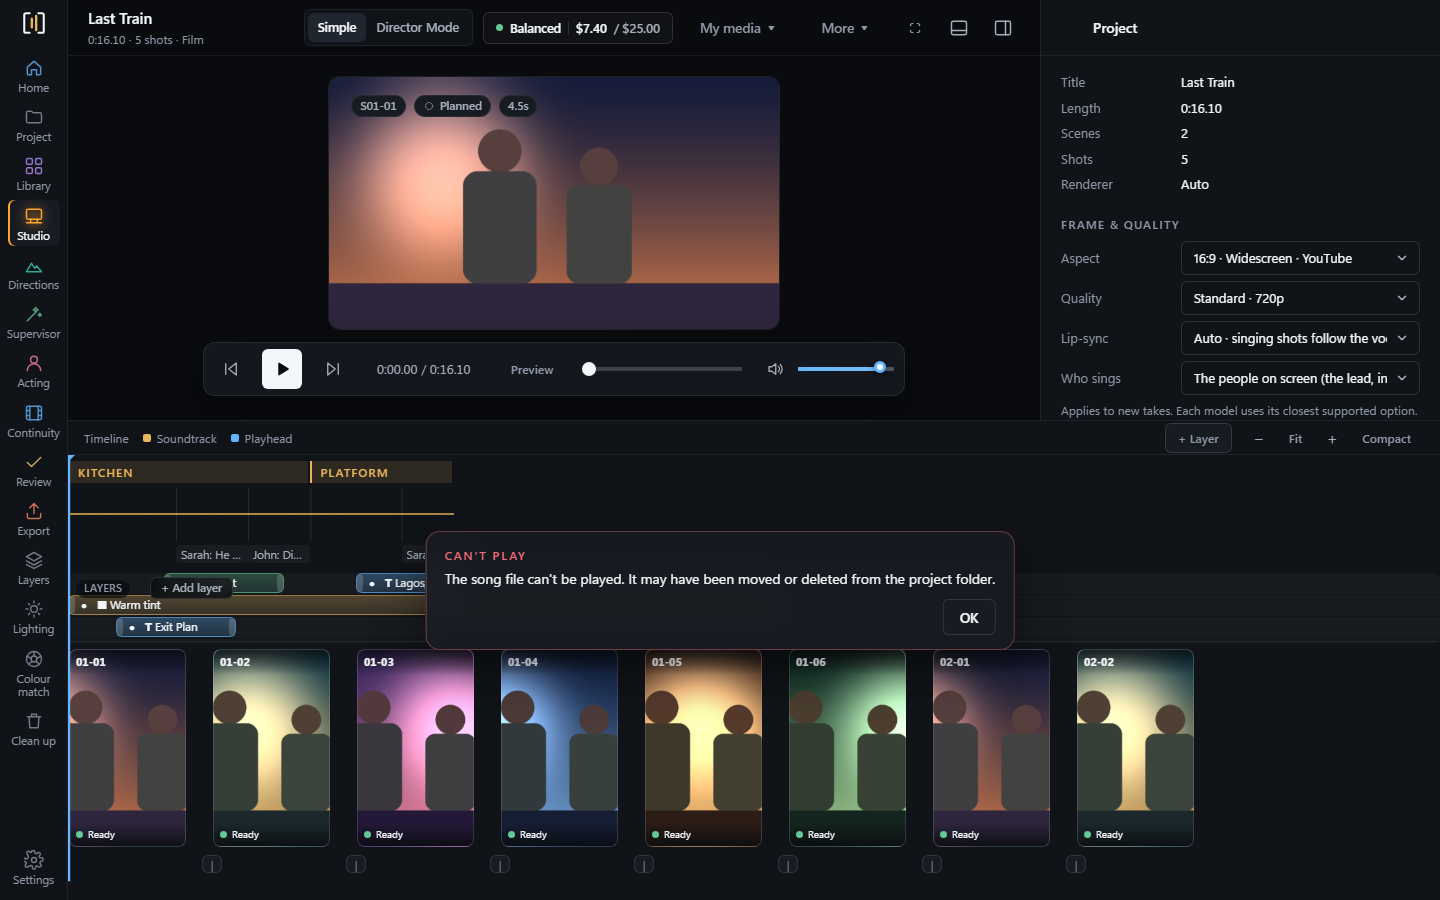
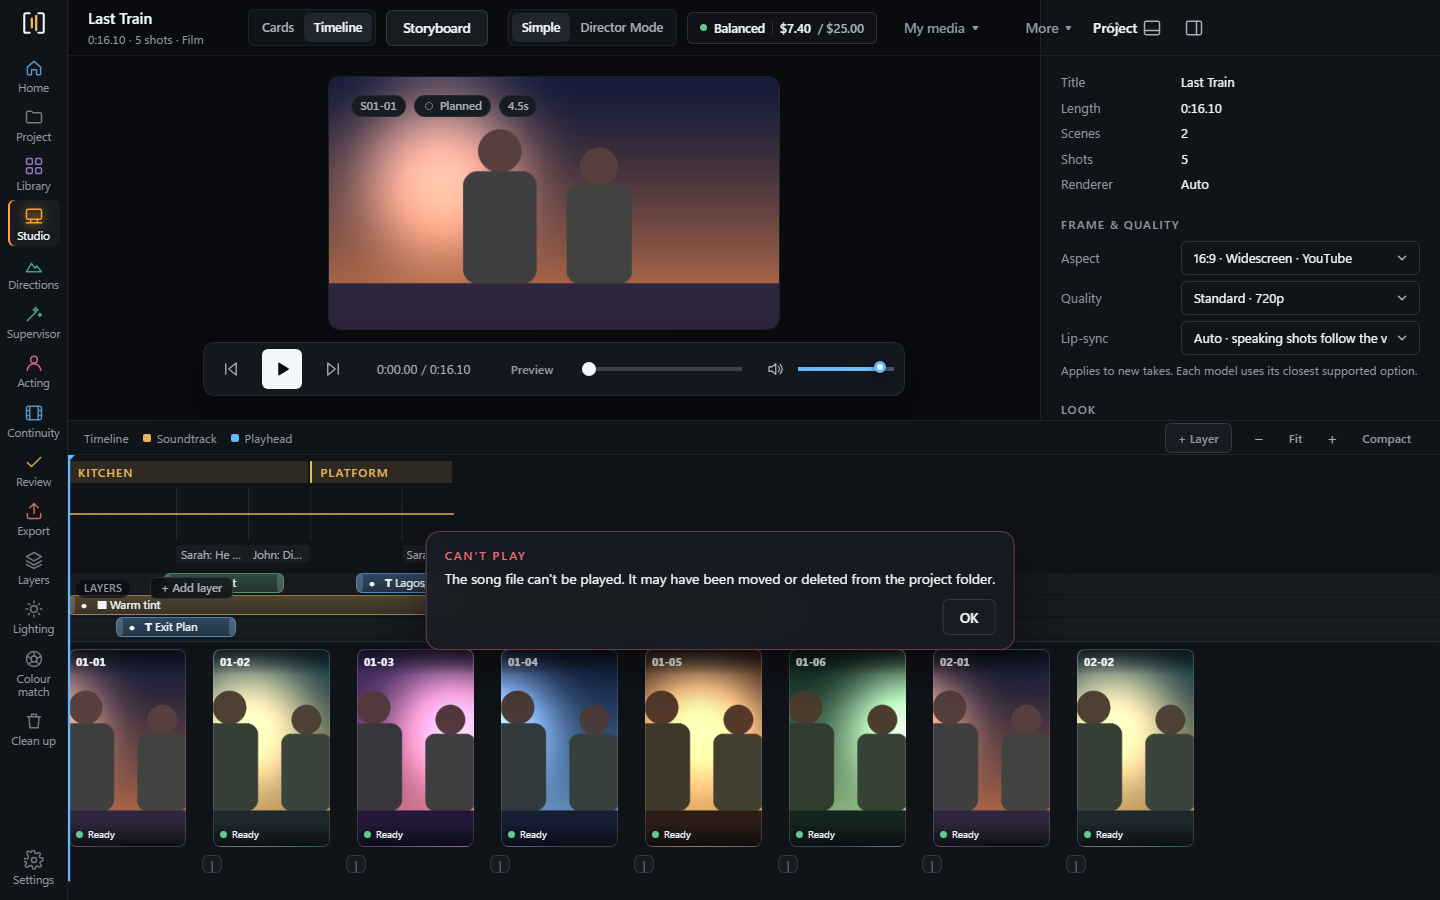
0.4.2: read PDFs by printed line (fixes one word per line), title pages, read-again, Cards|Storyboard in the studio bar

Changed region(s): [[0.2188, 0.0, 0.5938, 0.0622], [0.7188, 0.3733, 1.0, 0.4667], [0.6562, 0.0311, 0.6875, 0.0622]]

diff --git a/src/Studio.tsx b/src/Studio.tsx
@@ -221,6 +221,16 @@ export function Studio({ project, onHome, onSettings, onReload, onProduce }: {
   const planName = project.directed ? "directed" : "production";
   const isFilm = !!(project.project as { film?: boolean }).film;                       // a film's render project: no song to plan from, so the song-first guides and the Director are not offered
   const [tourOpen, setTourOpen] = useState(() => !isFilm && !tourSeen());
+  const goCards = (to?: string) => {                                                // back to the film workspace (optionally straight to a step of it)
+    try { if (to) localStorage.setItem(`fc-film-stage:${project.dir.replace(/[\/]render$/i, "")}`, to); } catch { /* a convenience only */ }
+    onHome();
+  };
+  const filmSwitch = isFilm ? (
+    <>
+      <div className="mode-toggle film-view" role="group" aria-label="How to see the film" title="The same film two ways. Cards: the story-first workspace. Timeline: this editing studio.">
+        <button aria-pressed="false" onClick={() => goCards()}>Cards</button><button className="on" aria-pressed="true">Timeline</button></div>
+      <button className="btn" onClick={() => goCards("storyboard")} title="Back to the film: the storyboard wall">Storyboard</button>
+    </>) : null;
   const latest = useMemo(() => latestJobs(jobs, planName), [jobs, planName]);
   // Review judges the newest finished take of each shot (a newer failed attempt doesn't hide it).
   const takes = useMemo(() => latestJobs(jobs.filter((j) => j.state === "ready"), planName), [jobs, planName]);
@@ -462,6 +472,7 @@ export function Studio({ project, onHome, onSettings, onReload, onProduce }: {
             {map && <div className="meta num">{isFilm ? "" : `${Math.round(map.bpm)} BPM · `}{fmtTime(map.duration)} · {shots.length} shots
               {isFilm ? " · Film" : project.directed ? " · Directed" : plan ? " · Planned from script" : ""}</div>}
           </div>
+          {filmSwitch}
           <div className="grow" />
           <div className="mode-toggle" role="group" aria-label="Mode">
             <button className={!director ? "on" : ""} onClick={() => setDirector(false)}>Simple</button>
@@ -503,7 +514,6 @@ export function Studio({ project, onHome, onSettings, onReload, onProduce }: {
           {plan && <button className="btn ghost cmd-btn" onClick={() => setCommanding(true)} title="Tell the Director what to change, in plain words (Ctrl+K)">Ask the Director <kbd>Ctrl K</kbd></button>}
           {narrowBar ? <div className="menu-wrap"><button className="btn ghost" onClick={() => setMoreOpen((v) => !v)} aria-expanded={moreOpen} aria-haspopup="menu">More ▾</button>
             {moreOpen && <div className="menu glass tb-more" role="menu" onClick={() => setMoreOpen(false)} onMouseLeave={() => setMoreOpen(false)}>
-          {isFilm && <div className="mode-toggle film-view" role="group" aria-label="How to see the film" title="The same film two ways."><button aria-pressed="false" onClick={onHome}>Cards</button><button className="on" aria-pressed="true">Timeline</button></div>}
           {!isFilm && <button className="btn" role="menuitem" onClick={() => setAutopilot(true)} title="Song to finished video, stopping only for your decisions">Autopilot</button>}
           {Object.keys(pendingKf).length > 0 && <button className="btn" onClick={() => setApprovingKf(true)}
                       title="Approve the newest keyframe for every shot without one">Approve {Object.keys(pendingKf).length} keyframes</button>}

diff --git a/src/api.ts b/src/api.ts
@@ -298,7 +298,7 @@ export const api = {
   filmCheck: <T = ContinuityView>(action: "check" | "decide" | "apply", target: string, data: Record<string, unknown> = {}) => invoke<T>("film_check", { action, target, data }),
   bible: <T = BibleView>(action: "get" | "seed" | "update_rules" | "upsert" | "remove" | "add_state" | "remove_state" | "add_wardrobe" | "add_media" | "remove_media", target: string, data: Record<string, unknown> = {}) =>
     invoke<T>("film_bible", { action, target, data }),
-  film: <T = FilmStatus>(action: "create" | "status" | "preview" | "read_file" | "add_version" | "set_current" | "lock" | "as_is" | "rec_set" | "set_mode", target: string | null, data: Record<string, unknown> = {}) =>
+  film: <T = FilmStatus>(action: "create" | "status" | "preview" | "read_file" | "add_version" | "set_current" | "lock" | "as_is" | "rec_set" | "set_mode" | "reread", target: string | null, data: Record<string, unknown> = {}) =>
     invoke<T>("film", { action, target, data }),
   backups: <T = unknown>(dir: string, action: "backup" | "backups" | "restore", name: string | null = null) => invoke<T>("backups", { dir, action, name }),
   packProject: (dir: string, dest: string) => invoke<{ path: string; files: number; bytes: number }>("pack_project", { dir, dest }),
@@ -457,7 +457,7 @@ export type FilmAdvice = { id: string; topic: string; text: string; scene: numbe
 export type FilmVersion = { version: number; kind: StoryKind; note: string; parent: number | null; origin: string; created: number; fingerprint: string; locked: boolean; words: number };
 export type FilmStatus = { dir?: string; title: string; aspect_ratio: string; mode: string; stage: string; created: number;
   story: { kind: StoryKind; current: number; locked: number | null; lock_history: { version: number; at: number }[]; as_is: number | null; original: string };
-  version: number; text: string; kind: StoryKind; note: string; locked_here: boolean; found: FilmFound; advice: FilmAdvice[]; versions: FilmVersion[] };
+  version: number; text: string; kind: StoryKind; note: string; locked_here: boolean; found: FilmFound; advice: FilmAdvice[]; versions: FilmVersion[]; looks_broken?: boolean; original?: string | null };
 export type StoryPreview = { kind: StoryKind; words: number; scenes: number; characters: number; locations: number; seconds: number; has_headings: boolean };
 
 // ---------------------------------------------------------------- the Production Bible, Cast and World

diff --git a/src/FilmView.tsx b/src/FilmView.tsx
@@ -18,7 +18,8 @@ export function FilmView({ dir, onHome, onSettings, onStudio }: { dir: string; o
   const [writing, setWriting] = useState(false);
   const [scene, setScene] = useState<number | null>(null);
   const [showAll, setShowAll] = useState(false);
-  const [stage, setStage] = useState<"story" | "cast" | "shots" | "make">("story");
+  const coming = (() => { try { const k = `fc-film-stage:${dir}`; const v = localStorage.getItem(k); localStorage.removeItem(k); return v; } catch { return null; } })();   // the studio asked to come back to a step
+  const [stage, setStage] = useState<"story" | "cast" | "shots" | "make">(coming === "storyboard" ? "make" : "story");
   const [makeTab, setMakeTab] = useState<MakeTab>("storyboard");
   const MAKE_STAGE: Record<string, MakeTab> = { storyboard: "storyboard", make: "keyframe", review: "video", export: "deliver" };
   const stageOf = (id: string) => (id in MAKE_STAGE ? "make" : id);
@@ -99,6 +100,9 @@ export function FilmView({ dir, onHome, onSettings, onStudio }: { dir: string; o
             <div style={{ flex: 1 }} />
             <span className="dim">{f.found.words.toLocaleString()} words{f.found.seconds > 0 ? ` · ${minutes(f.found.seconds)}` : ""}</span>
           </div>
+          {f.looks_broken && f.original && <p className="cw-note film-broken" role="status">This text was read one word to a line, so it can't be broken into scenes properly. Reading <b>{f.original}</b> again usually fixes it.
+            <button className="btn sm" disabled={!!busy} onClick={() => run("reread", () => api.film<FilmStatus>("reread", dir, {}))}>Read the file again</button>
+            <span className="dim"> The version you have stays as it is; this makes a new one.</span></p>}
           <div className={`film-script ${isScreenplay ? "sp" : "prose"}`} ref={reader} tabIndex={0} aria-label="The story, as written">
             {lines.map((l, i) => {
               const h = headingAt.get(i);

diff --git a/src/film.css b/src/film.css
@@ -251,3 +251,5 @@
 @media (prefers-reduced-motion: reduce) { .reel-track, .reel-sweep { animation: none !important; } .reel-sweep { display: none; } }
 
 .dropcard.story { padding-top: 60px; padding-bottom: 56px; }
+
+.film-broken { margin: var(--sp-3, 12px) var(--sp-5, 20px) 0; }

diff --git a/analysis/filmcrafter_engine/story.py b/analysis/filmcrafter_engine/story.py
@@ -99,6 +99,8 @@ def read_document(path: str) -> dict:
     if low.endswith(TEXT_EXT):
         with open(p, encoding="utf-8-sig", errors="replace") as f:
             text = f.read(MAX_TEXT + 1)
+    elif low.endswith(".pdf"):
+        text = _pdf_text(p)
     else:
         from . import onboarding
         text = onboarding.doc_text(p)["text"]
@@ -106,6 +108,56 @@ def read_document(path: str) -> dict:
     if not text.strip():
         raise SystemExit("No text was found in that file.")
     return {"name": os.path.basename(p), "text": text, "truncated": len(text) >= MAX_TEXT}
+
+
+def words_per_line(text: str) -> float:
+    """The middle number of words on a line: about 1 when a file was read one word to a line, 8 to 15 for ordinary writing."""
+    n = sorted(len(l.split()) for l in str(text).split("\n") if l.strip())
+    return float(n[len(n) // 2]) if n else 0.0
+
+
+def looks_broken(text: str) -> bool:
+    """Text that was read one word to a line (a common fault of some PDFs), so it needs reading again."""
+    lines = [l for l in str(text).split("\n") if l.strip()]
+    return len(lines) >= 60 and words_per_line(text) <= 1.5
+
+
+REPLACEMENT = "\ufffd"
+
+
+def tidy_pdf_text(text: str) -> str:
+    """Repair what a PDF reader leaves behind: the dash that comes out as a replacement mark, indents from the page layout, runs of spaces, and extra blank lines."""
+    t = str(text).replace("\r\n", "\n").replace("\r", "\n")
+    t = re.sub(r"(?<=\S)" + REPLACEMENT + r"(?=\S)", "-", t)         # carefully<mark>not  ->  carefully-not
+    t = t.replace(" " + REPLACEMENT + " ", " - ").replace(REPLACEMENT, "-")
+    t = "\n".join(re.sub(r"[ \t]+", " ", line).strip() for line in t.split("\n"))
+    return re.sub(r"\n{3,}", "\n\n", t).strip()
+
+
+def _pdf_text(path: str) -> str:
+    """The words in a PDF, in reading order. The layout reader keeps each printed line together; the plain reader is the fallback (and wins only if it gives longer lines)."""
+    try:
+        from pypdf import PdfReader
+    except ImportError:
+        raise SystemExit("PDF files can't be read here. Paste the text instead, or choose a text or Word file.")
+    try:
+        reader = PdfReader(path)
+        if getattr(reader, "is_encrypted", False):
+            raise SystemExit("That PDF is protected. Paste the text instead.")
+        layout, plain = [], []
+        for pg in reader.pages:
+            try:
+                layout.append(pg.extract_text(extraction_mode="layout") or "")
+            except Exception:
+                layout.append("")
+            plain.append(pg.extract_text() or "")
+    except SystemExit:
+        raise
+    except Exception:
+        raise SystemExit("That PDF couldn't be read. If it is a scan or protected, paste the text instead.")
+    a, b = tidy_pdf_text("\n\n".join(layout)), tidy_pdf_text("\n\n".join(plain))
+    best = a if words_per_line(a) >= words_per_line(b) else b
+    return best
 
 
 # ---------------------------------------------------------------- finding the scenes
@@ -160,7 +212,7 @@ def parse_screenplay(text: str) -> dict:
             cur = {"number": 1, "heading": "Opening", "int_ext": "", "location": "", "time": "", "line": i, "characters": [], "dialogue_lines": 0,
                    "action_lines": 0, "words": 0, "speeches": 0, "implied": True}
             scenes.append(cur)
-        if not in_dialogue and _is_cue(raw, prev_blank, nxt):
+        if not in_dialogue and not cur.get("implied") and _is_cue(raw, prev_blank, nxt):          # lines before the first scene heading are a title page, not people speaking
             speaker = CUE_NOTE.sub("", s).strip().lstrip("@").strip()
             if speaker not in cur["characters"]:
                 cur["characters"].append(speaker)
@@ -176,6 +228,10 @@ def parse_screenplay(text: str) -> dict:
             cur["action_lines"] += 1
             cur["words"] += len(s.split())
         prev_blank = False
+    if len(scenes) > 1 and scenes[0].get("implied"):                    # a title page is not a scene
+        scenes = scenes[1:]
+        for i, sc in enumerate(scenes, 1):
+            sc["number"] = i
     chars: dict[str, dict] = {}
     places: dict[str, list[int]] = {}
     for sc in scenes:
@@ -331,7 +387,27 @@ def status(d: str, version: int | None = None) -> dict:
     an = _read(_vpath(d, n, "analysis")) or {"found": {}, "advice": []}
     return {"title": m["title"], "aspect_ratio": m["aspect_ratio"], "mode": m.get("mode", "simple"), "stage": m["stage"], "created": m["created"],
             "story": st, "version": n, "text": rec["text"], "kind": rec["kind"], "note": rec.get("note", ""), "locked_here": bool(rec.get("locked")),
-            "found": an["found"], "advice": an["advice"], "versions": _versions(d)}
+            "found": an["found"], "advice": an["advice"], "versions": _versions(d), "looks_broken": looks_broken(rec["text"]),
+            "original": _original_file(d)}
+
+
+def _original_file(d: str) -> str | None:
+    name = (_read(os.path.join(d, "film.json"), {}) or {}).get("story", {}).get("original")
+    p = os.path.join(d, "script", "original", name or "")
+    return name if name and os.path.isfile(p) and name != "story.txt" else None
+
+
+def reread_original(d: str) -> dict:
+    """Read the file you brought again, with the current reader, as a NEW version. Nothing existing is changed: the earlier version stays as it was."""
+    _manifest(d)
+    name = _original_file(d)
+    if not name:
+        raise SystemExit("This film has no original file to read again.")
+    r = read_document(os.path.join(d, "script", "original", name))
+    cur = _read(_vpath(d, _manifest(d)["story"]["current"])) or {}
+    if r["text"].strip() == str(cur.get("text", "")).strip():
+        raise SystemExit("Reading the file again gives the same text, so there is nothing new.")
+    return add_version(d, r["text"], "Read from the original file again", "screenplay")
 
 
 def add_version(d: str, text: str, note: str = "", kind: str | None = None) -> dict:
@@ -426,7 +502,7 @@ def rec_set(d: str, version: int, rec_id: str, state: str) -> dict:
 
 def main(argv: list[str]) -> int:
     ap = argparse.ArgumentParser(prog="filmcrafter-story")
-    ap.add_argument("action", choices=["create", "status", "preview", "read_file", "add_version", "set_current", "lock", "as_is", "rec_set", "set_mode"])
+    ap.add_argument("action", choices=["create", "status", "preview", "read_file", "add_version", "set_current", "lock", "as_is", "rec_set", "set_mode", "reread"])
     ap.add_argument("target")
     ap.add_argument("--data", default="{}")
     a = ap.parse_args(argv)
@@ -448,6 +524,8 @@ def main(argv: list[str]) -> int:
             res = lock(a.target, x.get("version"))
         elif a.action == "as_is":
             res = as_is(a.target, x.get("version"))
+        elif a.action == "reread":
+            res = reread_original(a.target)
         elif a.action == "set_mode":
             res = set_mode(a.target, str(x.get("mode", "")))
         else:

diff --git a/analysis/tests/test_story.py b/analysis/tests/test_story.py
@@ -184,3 +184,45 @@ def test_simple_and_studio_are_the_same_film(tmp_path):
     assert story.set_mode(d, "simple")["mode"] == "simple"
     with pytest.raises(SystemExit, match="simple or studio"):
         story.set_mode(d, "expert")
+
+
+TITLE_PAGE = 'SUMMIT SPROUT: "FROM SHAME TO LIVING\nWATER"\n\nANIMATED SHORT FILM - REVISED SCREENPLAY\n\nINT. SCHOOL - DAY\n\nChloe draws.\n\nCHLOE\nHello.\n'
+
+
+def test_a_title_page_is_not_a_scene_or_a_character():
+    f = story.parse_screenplay(TITLE_PAGE)
+    assert [s["heading"] for s in f["scenes"]] == ["INT. SCHOOL - DAY"] and f["scenes"][0]["number"] == 1
+    assert [c["name"] for c in f["characters"]] == ["CHLOE"]
+
+
+def test_text_read_one_word_to_a_line_is_noticed_and_ordinary_text_is_not():
+    broken = "\n\n".join(["INT.", "SCHOOL", "DAY"] * 40)
+    assert story.looks_broken(broken) and story.words_per_line(broken) <= 1
+    assert not story.looks_broken("INT. SCHOOL - DAY\n\nChloe sits alone with her sketchbook open on her lap.\n" * 80)
+    assert not story.looks_broken("a\nb\nc")              # too little to say
+
+
+def test_pdf_text_is_tidied_dashes_indents_and_blank_lines():
+    raw = "        INT. SCHOOL � PLAYGROUND � DAY\r\n\r\n\r\n\r\n   carefully�not   tentatively\r\n"
+    assert story.tidy_pdf_text(raw) == "INT. SCHOOL - PLAYGROUND - DAY\n\ncarefully-not tentatively"
+
+
+def test_the_original_file_can_be_read_again_as_a_new_version(tmp_path):
+    src = tmp_path / "a.txt"
+    src.write_text("INT. ROOM - DAY\n\nA man waits.\n", encoding="utf-8")
+    d = story.create(str(tmp_path / "films"), "T", "screenplay", "INT. ROOM - DAY\n\nA man waits.\n", str(src))["dir"]
+    assert story.status(d)["original"] == "a.txt"
+    with pytest.raises(SystemExit, match="same text"):
+        story.reread_original(d)
+    o = os.path.join(d, "script", "original", "a.txt")
+    open(o, "w", encoding="utf-8").write("INT. ROOM - DAY\n\nA man waits by the window.\n")
+    r = story.reread_original(d)
+    assert r["version"] == 2 and "window" in r["text"] and r["versions"][1]["note"].startswith("Read from the original")
+    assert "window" not in story.status(d, 1)["text"]                 # the first version is untouched
+
+
+def test_a_film_made_from_typed_text_has_no_original_to_read_again(tmp_path):
+    d = story.create(str(tmp_path), "T", "screenplay", "INT. ROOM - DAY\n\nA man waits.\n")["dir"]
+    assert story.status(d)["original"] is None
+    with pytest.raises(SystemExit, match="no original file"):
+        story.reread_original(d)

diff --git a/src-tauri/src/lib.rs b/src-tauri/src/lib.rs
@@ -1356,7 +1356,7 @@ fn film_dir(path: &str) -> Result<PathBuf, String> {
 /// at all; every other action works on an existing film folder. Reading and advice are free and local; nothing here is sent anywhere.
 #[tauri::command]
 async fn film(app: AppHandle, action: String, target: Option<String>, data: Value) -> Result<Value, String> {
-    const ACTIONS: [&str; 10] = ["create", "status", "preview", "read_file", "add_version", "set_current", "lock", "as_is", "rec_set", "set_mode"];
+    const ACTIONS: [&str; 11] = ["create", "status", "preview", "read_file", "add_version", "set_current", "lock", "as_is", "rec_set", "set_mode", "reread"];
     if !ACTIONS.contains(&action.as_str()) {
         return Err("Unknown film action.".into());
     }

diff --git a/analysis/tests/test_shots.py b/analysis/tests/test_shots.py
@@ -174,3 +174,8 @@ def test_the_command_line(film, capsys):
     assert shots.main(["shot", film, "--data", json.dumps({"id": "S01-01"})]) == 0
     capsys.readouterr()
     assert shots.main(["get", film + "-nope"]) == 1
+
+
+def test_a_title_page_does_not_become_shots():
+    sc = shots.scene_blocks('MY FILM\n\nREVISED DRAFT\n\nINT. KITCHEN - DAY\n\nSarah pours tea.\n')
+    assert [s["number"] for s in sc] == [1] and sc[0]["heading"] == "INT. KITCHEN - DAY"

diff --git a/analysis/filmcrafter_engine/shots.py b/analysis/filmcrafter_engine/shots.py
@@ -128,6 +128,10 @@ def scene_blocks(text: str) -> list[dict]:
                 cur["blocks"].append(blk)
             blk["lines"].append(s)
         prev_blank = False
+    if len(scenes) > 1 and scenes[0].get("implied") and not any(x["type"] == "dialogue" for x in scenes[0]["blocks"]):          # a title page is not a scene
+        scenes = scenes[1:]
+        for i, sc in enumerate(scenes, 1):
+            sc["number"] = i
     return scenes
 
 

diff --git a/CHANGELOG.md b/CHANGELOG.md
@@ -1,5 +1,11 @@
 # Changelog
 
+## 0.4.2 (2026-10-10)
+
+- **Fixed: a PDF screenplay was read one word to a line.** The real cause was the PDF reader, not the screen. PDFs are now read by printed line (the layout reader), the dash that came out as a replacement mark is repaired, and a title page is no longer taken for a scene or a speaking character. A film that was read badly shows a notice with **Read the file again**, which makes a new version and leaves the old one untouched.
+- **Fixed: no way back to the storyboard from the timeline view.** The studio's top bar now has **Cards | Timeline** and a **Storyboard** button at the top left, on every window size, and Storyboard takes you straight to the storyboard wall.
+- Tests: title pages, one-word-per-line detection, PDF tidying, reading the original again.
+
 ## 0.4.1 (2026-10-10)
 
 - **Fixed: PULSEFRAME's splash screen sometimes showed on launch.** FilmCrafter had inherited its two opening designs (one of them the music app's "steps" picture, on every other launch). There is now one opening: FilmCrafter's own artwork, with a film strip rolling past and a slow sweep of light. A test keeps the music app's pictures out.
